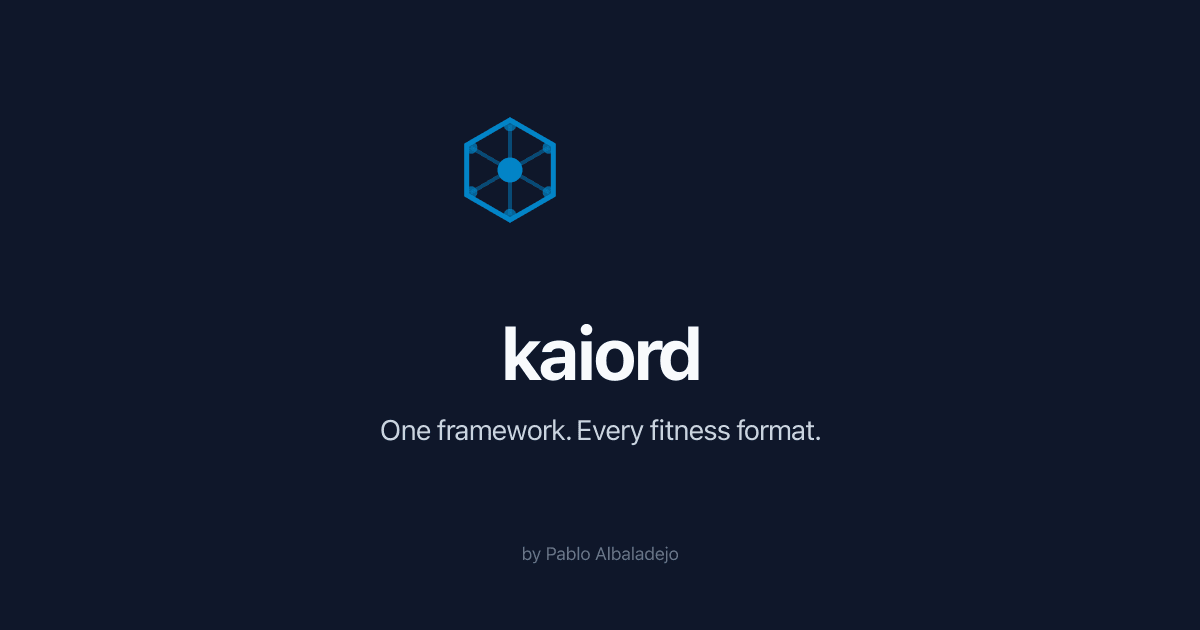
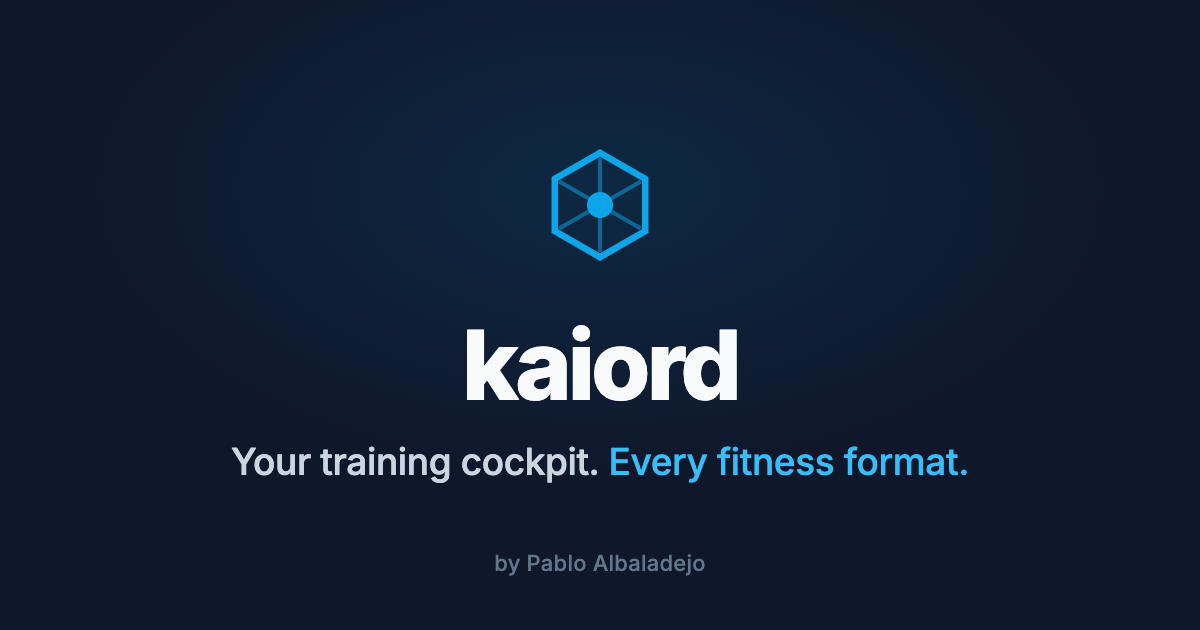
chore(landing): regenerate og-image for platform repositioning (#868)
Update the social share image tagline from 'One framework. Every fitness
format.' to 'Your training cockpit. Every fitness format.', matching the
landing redesign in #867. Same brand composition (hexagon mark, kaiord
wordmark, byline); second clause set in sky to echo the hero.

Pull request: chore(landing): regenerate og-image for platform repositioning
## Summary

Follow-up to #867. The social share image (`packages/landing/public/og-image.png`) still carried the old tagline **"One framework. Every fitness format."**. Regenerated it to match the shipped repositioning: **"Your training cockpit. Every fitness format."**

Same brand composition as before — hexagon mark, `kaiord` wordmark, `by Pablo Albaladejo` byline, dark `#0f172a` ground — rendered with the shared Inter face at 1200×630. The second clause is set in sky (`#38bdf8`) to echo the hero, plus a subtle radial glow behind the mark consistent with the site.

## Verification

- Output is a valid 1200×630 PNG (correct OG dimensions), 176 KB.
- Rendered and visually inspected before commit.

🤖 Generated with [Claude Code](https://claude.com/claude-code)

diff --git a/.changeset/landing-og-image.md b/.changeset/landing-og-image.md
@@ -1,0 +1,5 @@
+---
+"@kaiord/landing": patch
+---
+
+Regenerate og-image.png to match the platform repositioning: tagline updated from "One framework. Every fitness format." to "Your training cockpit. Every fitness format."